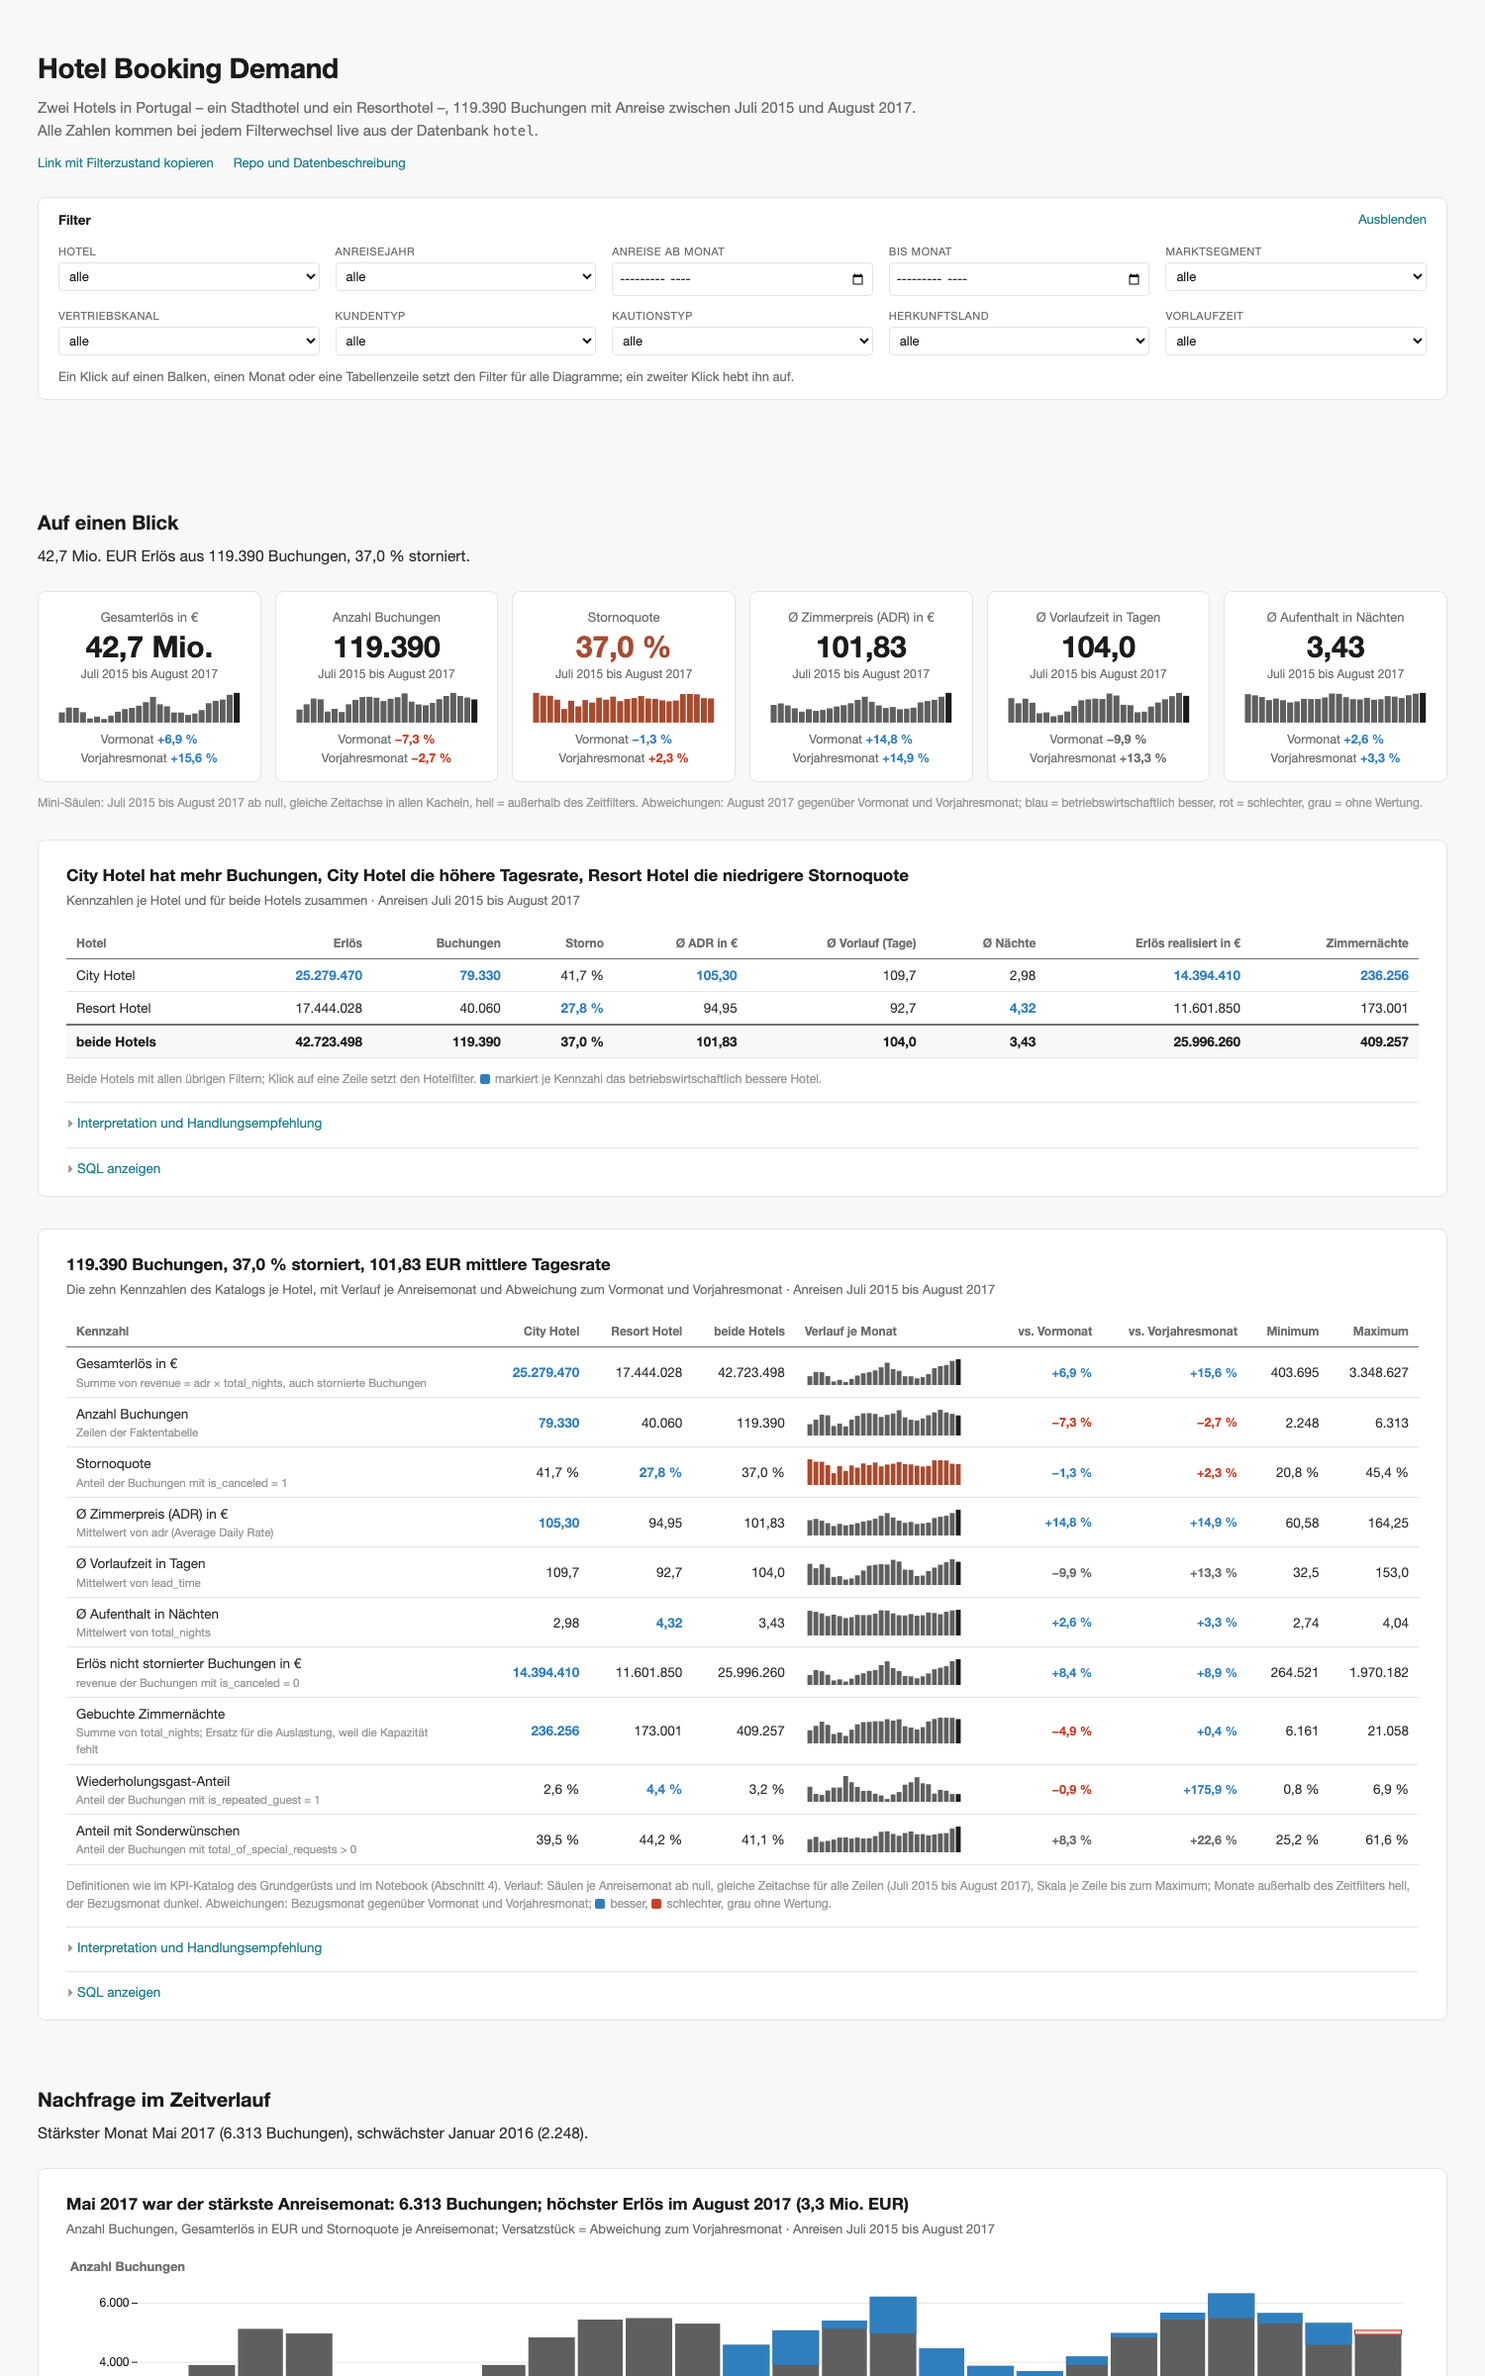
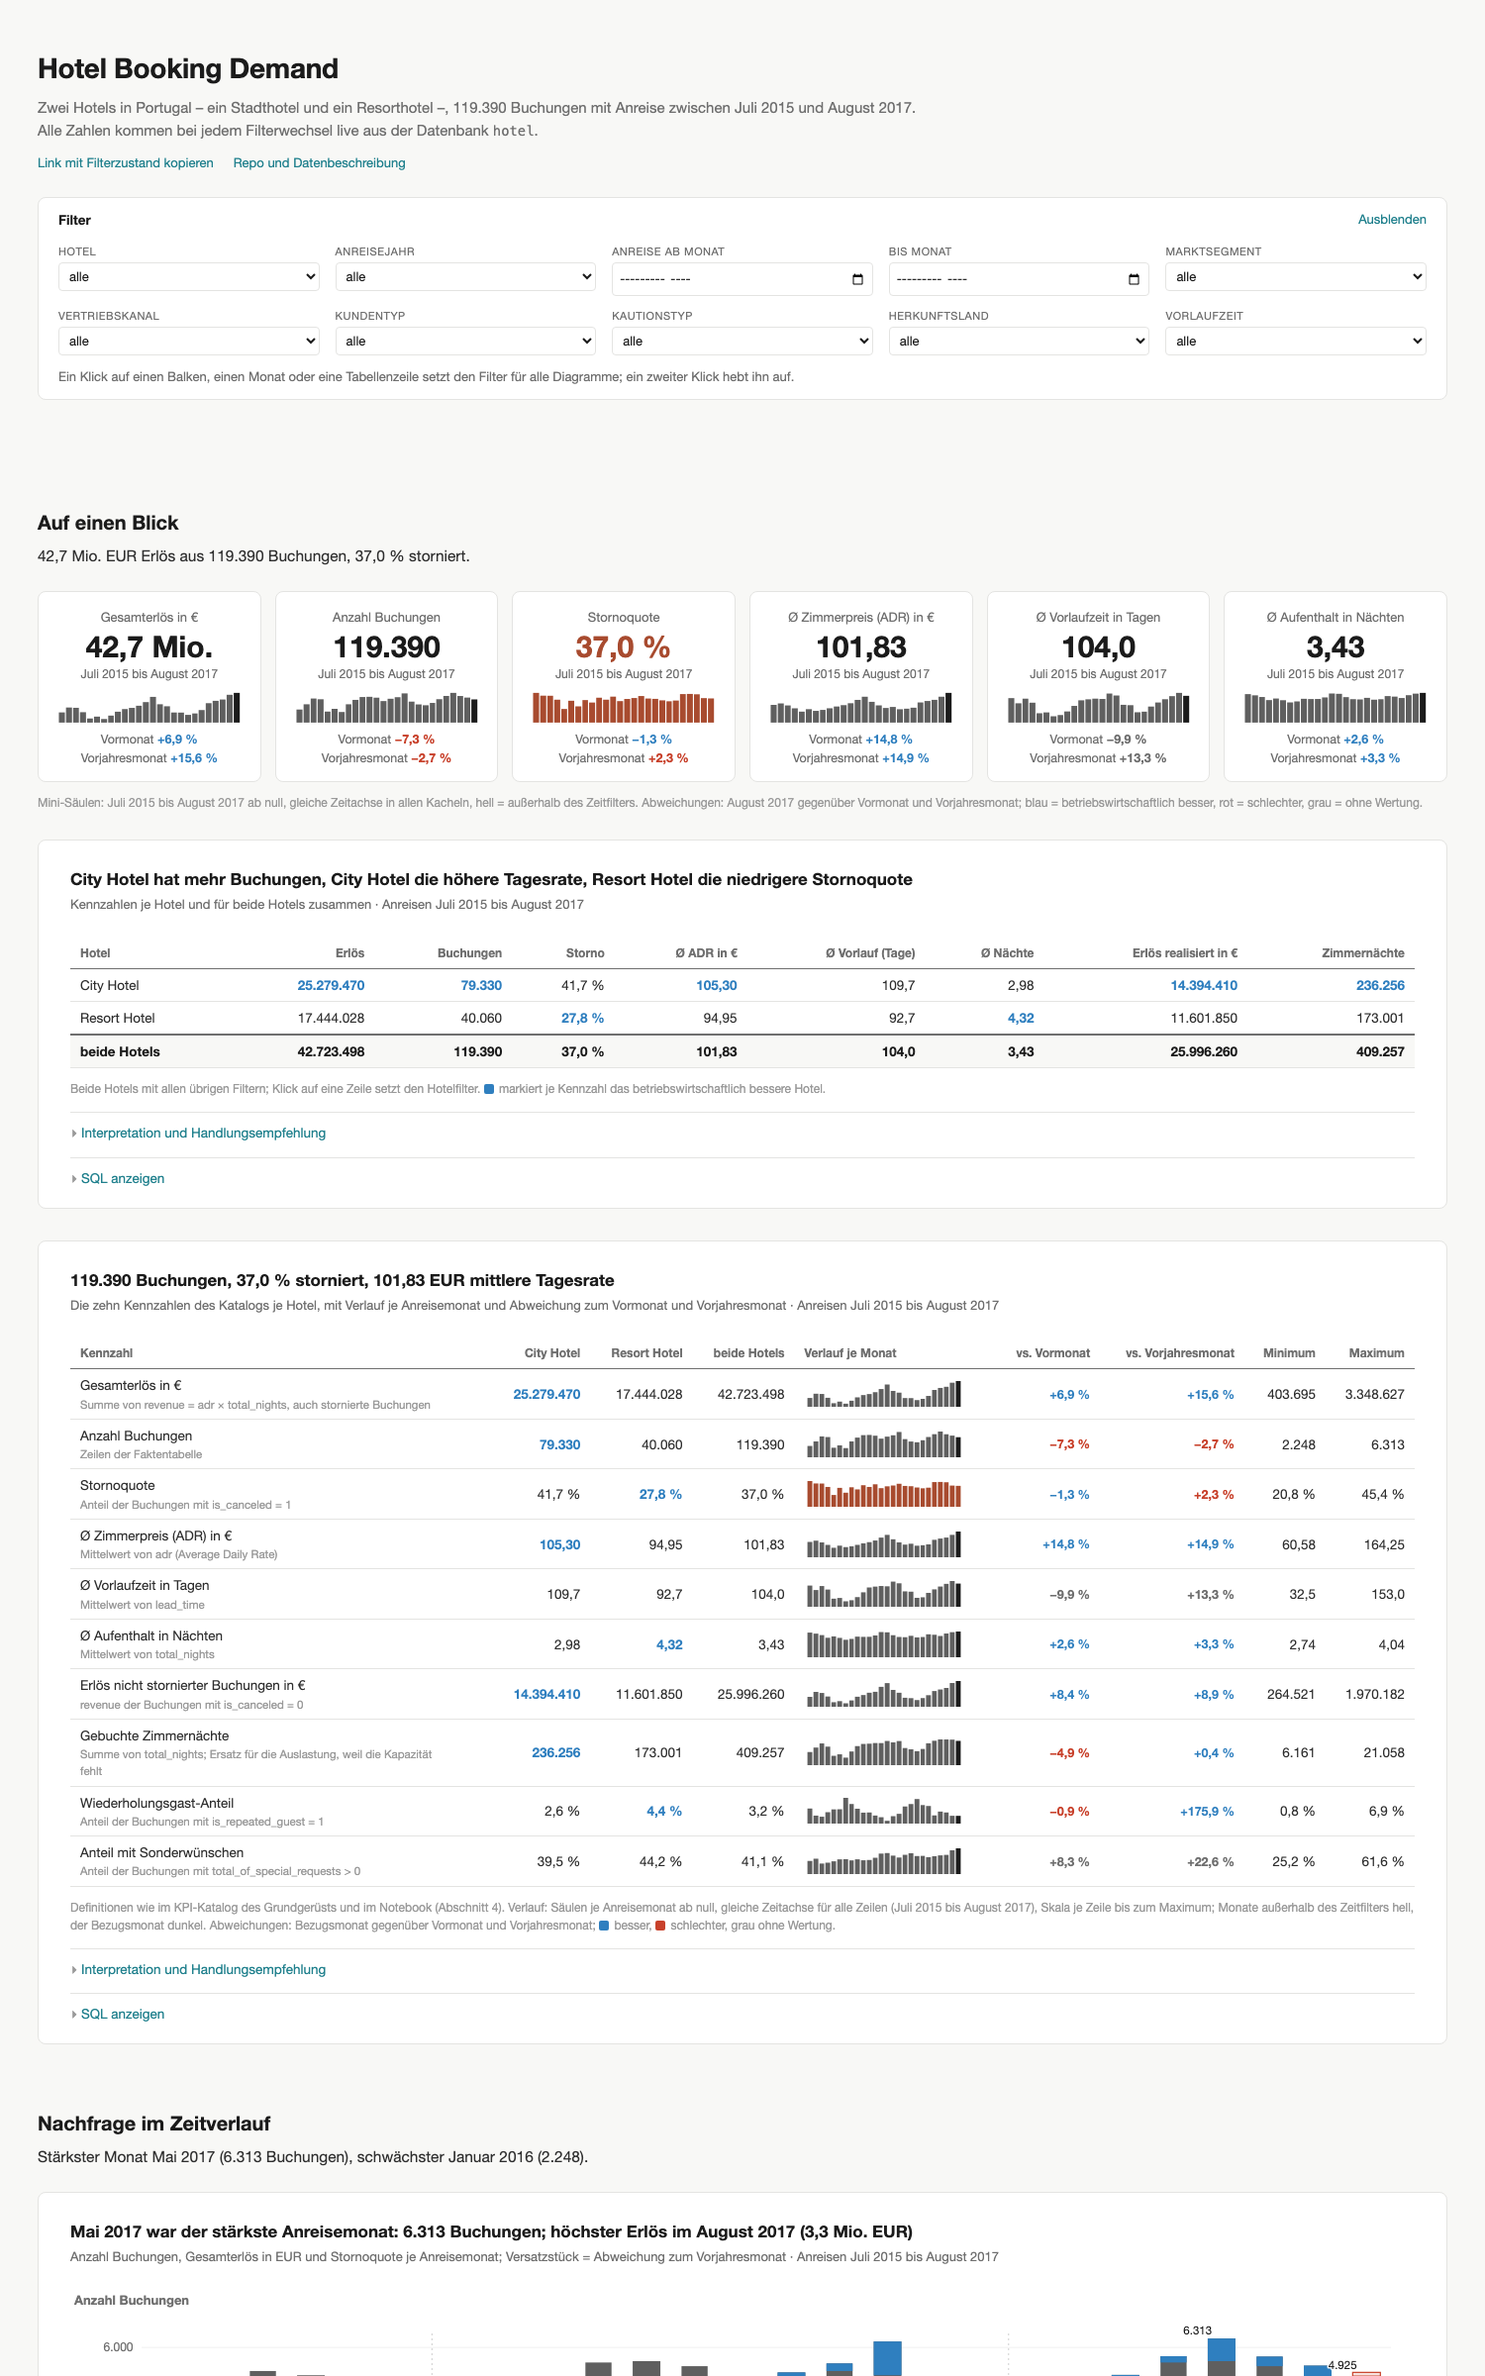
Zeitverlauf: schmalere Säulen, eigene Achse je Feld, Jahrestrenner, Werte an Maximum und Bezugsmonat, mehr Weißraum

diff --git a/dashboard/frontend/diagramme.js b/dashboard/frontend/diagramme.js
@@ -96,14 +96,32 @@ function balken(element, daten, o) {
   });
 }
 
-// Säulen je Monat mit Versatzstück zum Vorjahresmonat (IBCS): liegt der Wert über dem
-// Vorjahresmonat, ist der Überschuss blau, sonst ist der Fehlbetrag rot – bei Kennzahlen,
-// deren Anstieg gut ist. Für "niedriger ist besser" (Stornoquote) sind die Farben getauscht.
-// daten: [{datum, wert, vorjahr, vormonat, imFilter}]; Optionen: format, hoeherBesser, achse, hoehe, klickMonat, tipp.
+// Gemeinsame Zeitachse für Säulendiagramme: Ticks je Quartal, Januar mit Jahreszahl.
+function zeitachse(bereich) {
+  const erster = +bereich[0];
+  return {
+    label: null, domain: bereich, ticks: schmal() ? d3.utcMonth.every(6) : d3.utcMonth.every(3), tickSize: 4,
+    tickFormat: (d) => (d.getUTCMonth() === 0 || +d === erster ? MONATE_KURZ[d.getUTCMonth()] + " " + d.getUTCFullYear() : MONATE_KURZ[d.getUTCMonth()]),
+  };
+}
+
+// Abstand zwischen den Säulen: die Säule nimmt etwa 55 % ihres Monatsfelds ein.
+function saeulenabstand(breite, anzahl, rand) {
+  const feld = (breite - rand) / Math.max(anzahl, 1);
+  return Math.max(2, feld * 0.22);
+}
+
+// Trennlinien und Jahreszahlen an den Jahresgrenzen als Führung.
+function jahresmarken(bereich) {
+  return d3.utcYears(bereich[0], bereich[1]);
+}
+
+// Säulen je Monat mit Versatzstück zum Vorjahresmonat (IBCS). Die Säule zeigt immer den
+// Ist-Wert. Liegt er über dem Vorjahresmonat, ist der Teil oberhalb des Vorjahreswerts
+// gefüllt; liegt er darunter, zeigt ein Umriss über der Säule den Fehlbetrag bis zum
+// Vorjahreswert. Blau = betriebswirtschaftlich besser, Rot = schlechter.
+// daten: [{datum, wert, vorjahr, vormonat, imFilter, bezug}]; Optionen: format, hoeherBesser, hoehe, klickMonat, tipp.
 function saeulen(element, daten, o) {
-  // Die Säule zeigt immer den Ist-Wert. Liegt er über dem Vorjahresmonat, ist der
-  // Teil oberhalb des Vorjahreswerts farbig gefüllt; liegt er darunter, zeigt ein
-  // farbiger Umriss über der Säule den Fehlbetrag bis zum Vorjahreswert.
   const istBesser = (d) => (o.hoeherBesser ? d.wert >= d.vorjahr : d.wert <= d.vorjahr);
   const farbe = (d) => (istBesser(d) ? FARBE.besser : FARBE.schlechter);
   const mitVorjahr = daten.filter((d) => d.vorjahr != null && d.wert !== d.vorjahr);
@@ -111,36 +129,48 @@ function saeulen(element, daten, o) {
   const fehlbetrag = mitVorjahr.filter((d) => d.wert < d.vorjahr);
   const deckkraft = (d) => (d.imFilter === false ? 0.35 : 1);
   const bereich = [d3.min(daten, (d) => d.datum), d3.utcMonth.offset(d3.max(daten, (d) => d.datum), 1)];
+  const breite = breiteVon(element), links = schmal() ? 56 : 72, rechts = 24;
+  const inset = saeulenabstand(breite, daten.length, links + rechts);
+  // Beschriftet werden nur der höchste Monat und der Bezugsmonat.
+  const maximum = d3.greatest(daten, (d) => d.wert);
+  const beschriftet = daten.filter((d) => d === maximum || d.bezug);
   return Plot.plot({
-    width: breiteVon(element), height: o.hoehe || 210, marginLeft: schmal() ? 60 : 72, marginRight: 16, marginTop: 10, marginBottom: o.achse ? 28 : 6,
-    x: { label: null, domain: bereich, axis: o.achse ? "bottom" : null, tickFormat: (d) => monatstext(d), ticks: "6 months" },
-    y: { label: null, grid: true, tickFormat: (d) => o.format(d), nice: true, zero: true, ticks: 4 },
-    style: { fontSize: "12px", color: FARBE.tinte },
+    width: breite, height: o.hoehe || 230, marginLeft: links, marginRight: rechts, marginTop: 22, marginBottom: 30,
+    x: zeitachse(bereich),
+    y: { label: null, grid: true, tickFormat: (d) => o.format(d), nice: true, zero: true, ticks: 4, tickSize: 0 },
+    style: { fontSize: "12px", color: FARBE.grau },
     marks: [
-      Plot.rectY(daten, { x: "datum", interval: "month", y1: 0, y2: "wert", fill: FARBE.balken, fillOpacity: deckkraft, insetLeft: 1.5, insetRight: 1.5,
+      Plot.ruleX(jahresmarken(bereich), { stroke: FARBE.fuehrung, strokeDasharray: "2,3" }),
+      Plot.rectY(daten, { x: "datum", interval: "month", y1: 0, y2: "wert", fill: FARBE.balken, fillOpacity: deckkraft, insetLeft: inset, insetRight: inset,
         render: klickbar(daten, (d) => o.klickMonat && o.klickMonat(d.datum)) }),
-      Plot.rectY(ueberschuss, { x: "datum", interval: "month", y1: "vorjahr", y2: "wert", fill: farbe, fillOpacity: deckkraft, insetLeft: 1.5, insetRight: 1.5 }),
-      Plot.rectY(fehlbetrag, { x: "datum", interval: "month", y1: "wert", y2: "vorjahr", fill: farbe, fillOpacity: 0.18, stroke: farbe, strokeWidth: 1.2, strokeOpacity: deckkraft, insetLeft: 1.5, insetRight: 1.5 }),
+      Plot.rectY(ueberschuss, { x: "datum", interval: "month", y1: "vorjahr", y2: "wert", fill: farbe, fillOpacity: deckkraft, insetLeft: inset, insetRight: inset }),
+      Plot.rectY(fehlbetrag, { x: "datum", interval: "month", y1: "wert", y2: "vorjahr", fill: farbe, fillOpacity: 0.15, stroke: farbe, strokeWidth: 1.2, strokeOpacity: deckkraft, insetLeft: inset, insetRight: inset }),
+      Plot.text(beschriftet, { x: (d) => d3.utcMonth.offset(d.datum, 0.5), y: (d) => (d.vorjahr != null ? Math.max(d.wert, d.vorjahr) : d.wert), dy: -8, text: (d) => o.format(d.wert), fill: FARBE.tinte, fontSize: 11.5, textAnchor: "middle", stroke: "#fff", strokeWidth: 3 }),
       Plot.ruleY([0], { stroke: FARBE.grau }),
       Plot.tip(daten, Plot.pointerX({ x: "datum", y: "wert", title: o.tipp })),
     ],
   });
 }
 
-// Gestapelte Säulen je Monat: unten der realisierte Erlös (grau), oben der durch
-// Stornierung verlorene (rotbraun). daten: [{datum, realisiert, storniert, imFilter}].
+// Gestapelte Säulen je Monat: unten der realisierte Betrag (grau), oben der durch
+// Stornierung entgangene (rotbraun). daten: [{datum, realisiert, storniert, imFilter}].
 function gestapelteSaeulen(element, daten, o) {
   const bereich = [d3.min(daten, (d) => d.datum), d3.utcMonth.offset(d3.max(daten, (d) => d.datum), 1)];
   const deckkraft = (d) => (d.imFilter === false ? 0.35 : 1);
+  const breite = breiteVon(element), links = schmal() ? 56 : 72, rechts = 24;
+  const inset = saeulenabstand(breite, daten.length, links + rechts);
+  const maximum = d3.greatest(daten, (d) => d.realisiert + d.storniert);
   return Plot.plot({
-    width: breiteVon(element), height: 260, marginLeft: schmal() ? 60 : 72, marginRight: 16, marginTop: 10, marginBottom: 28,
-    x: { label: null, domain: bereich, tickFormat: (d) => monatstext(d), ticks: "6 months" },
-    y: { label: null, grid: true, tickFormat: (d) => kurz(d), nice: true, zero: true, ticks: 4 },
-    style: { fontSize: "12px", color: FARBE.tinte },
+    width: breite, height: 280, marginLeft: links, marginRight: rechts, marginTop: 22, marginBottom: 30,
+    x: zeitachse(bereich),
+    y: { label: null, grid: true, tickFormat: (d) => kurz(d), nice: true, zero: true, ticks: 4, tickSize: 0 },
+    style: { fontSize: "12px", color: FARBE.grau },
     marks: [
-      Plot.rectY(daten, { x: "datum", interval: "month", y1: 0, y2: "realisiert", fill: FARBE.balken, fillOpacity: deckkraft, insetLeft: 1.5, insetRight: 1.5,
+      Plot.ruleX(jahresmarken(bereich), { stroke: FARBE.fuehrung, strokeDasharray: "2,3" }),
+      Plot.rectY(daten, { x: "datum", interval: "month", y1: 0, y2: "realisiert", fill: FARBE.balken, fillOpacity: deckkraft, insetLeft: inset, insetRight: inset,
         render: klickbar(daten, (d) => o.klickMonat && o.klickMonat(d.datum)) }),
-      Plot.rectY(daten, { x: "datum", interval: "month", y1: "realisiert", y2: (d) => d.realisiert + d.storniert, fill: FARBE.storno, fillOpacity: deckkraft, insetLeft: 1.5, insetRight: 1.5 }),
+      Plot.rectY(daten, { x: "datum", interval: "month", y1: "realisiert", y2: (d) => d.realisiert + d.storniert, fill: FARBE.storno, fillOpacity: deckkraft, insetLeft: inset, insetRight: inset }),
+      Plot.text(maximum ? [maximum] : [], { x: (d) => d3.utcMonth.offset(d.datum, 0.5), y: (d) => d.realisiert + d.storniert, dy: -7, text: (d) => kurz(d.realisiert + d.storniert), fill: FARBE.tinte, fontSize: 11.5, textAnchor: "middle" }),
       Plot.ruleY([0], { stroke: FARBE.grau }),
       Plot.tip(daten, Plot.pointerX({ x: "datum", y: (d) => d.realisiert + d.storniert, title: o.tipp })),
     ],

diff --git a/dashboard/frontend/index.html b/dashboard/frontend/index.html
@@ -4,7 +4,7 @@
   <meta charset="utf-8">
   <meta name="viewport" content="width=device-width, initial-scale=1">
   <title>Hotel Booking Demand – Dashboard</title>
-  <link rel="stylesheet" href="style.css?v=2026-09-12c">
+  <link rel="stylesheet" href="style.css?v=2026-09-12d">
 </head>
 <body>
 <main>
@@ -60,7 +60,7 @@
     <figure id="fig-zeitverlauf">
       <h3 class="aussage"></h3><p class="beschreibung"></p>
       <div class="diagramm gestapelt"><div id="zeit-buchungen"></div><div id="zeit-erloes"></div><div id="zeit-storno"></div></div>
-      <p class="quelle">Die Säule ist der Monatswert. <span class="signal besser"></span> gefüllt: Zuwachs gegenüber dem Vorjahresmonat &nbsp; <span class="signal schlechter"></span> Umriss über der Säule: Fehlbetrag bis zum Vorjahresmonat (bei der Stornoquote gilt niedriger als besser, die Farben sind dort vertauscht) · Monate außerhalb des Zeitfilters sind hell · Drei Felder, eine Zeitachse, jedes Feld mit eigener Einheit und Skala.</p>
+      <p class="quelle">Die Säule ist der Monatswert; beschriftet sind der höchste Monat und der Bezugsmonat. <span class="signal besser"></span> gefüllt: Zuwachs gegenüber dem Vorjahresmonat &nbsp; <span class="signal schlechter"></span> Umriss über der Säule: Fehlbetrag bis zum Vorjahresmonat (bei der Stornoquote gilt niedriger als besser, die Farben sind dort vertauscht) · Monate außerhalb des Zeitfilters sind hell · gestrichelte Linien: Jahreswechsel · jedes Feld hat seine eigene Einheit und Skala.</p>
       <details class="deutung"><summary>Interpretation und Handlungsempfehlung</summary><div class="deutung-text"></div></details>
       <details class="sql" data-route="monate"><summary>SQL anzeigen</summary><pre></pre></details>
     </figure>
@@ -148,12 +148,12 @@
 <!-- Bibliotheken mit fester Version, damit alle dasselbe Verhalten sehen -->
 <script src="https://cdn.jsdelivr.net/npm/d3@7.9.0/dist/d3.min.js"></script>
 <script src="https://cdn.jsdelivr.net/npm/@observablehq/plot@0.6.17/dist/plot.umd.min.js"></script>
-<script src="format.js?v=2026-09-12c"></script>
-<script src="laendernamen.js?v=2026-09-12c"></script>
-<script src="bezeichnungen.js?v=2026-09-12c"></script>
-<script src="diagramme.js?v=2026-09-12c"></script>
-<script src="tabelle.js?v=2026-09-12c"></script>
-<script src="texte.js?v=2026-09-12c"></script>
-<script src="app.js?v=2026-09-12c"></script>
+<script src="format.js?v=2026-09-12d"></script>
+<script src="laendernamen.js?v=2026-09-12d"></script>
+<script src="bezeichnungen.js?v=2026-09-12d"></script>
+<script src="diagramme.js?v=2026-09-12d"></script>
+<script src="tabelle.js?v=2026-09-12d"></script>
+<script src="texte.js?v=2026-09-12d"></script>
+<script src="app.js?v=2026-09-12d"></script>
 </body>
 </html>

diff --git a/dashboard/frontend/style.css b/dashboard/frontend/style.css
@@ -51,9 +51,9 @@ header.kopf nav a:hover, header.kopf nav button:hover { text-decoration: underli
 section { margin-top: 64px; }
 section > h2 { font-size: 20px; font-weight: 650; color: var(--tinte); margin: 0 0 8px; }
 section > .lead { max-width: 900px; margin: 0 0 24px; color: var(--text); font-size: 15.5px; }
-figure { margin: 0 0 32px; background: var(--flaeche); border: 1px solid var(--linie); border-radius: 8px; padding: 24px 28px 18px; }
+figure { margin: 0 0 32px; background: var(--flaeche); border: 1px solid var(--linie); border-radius: 8px; padding: 28px 32px 20px; }
 figure .aussage { font-size: 17px; font-weight: 650; line-height: 1.35; color: var(--tinte); margin: 0 0 4px; }
-figure .beschreibung { font-size: 13px; color: var(--grau); margin: 0 0 18px; }
+figure .beschreibung { font-size: 13px; color: var(--grau); margin: 0 0 24px; }
 figure .diagramm { min-height: 80px; }
 figure .diagramm svg { display: block; max-width: 100%; height: auto; font-family: var(--schrift); }
 figure .quelle { font-size: 12px; color: var(--hell); margin: 12px 0 0; }

diff --git a/dashboard/frontend/app.js b/dashboard/frontend/app.js
@@ -427,11 +427,11 @@ function zeitverlaufZeichnen(d) {
     ["zeit-erloes", "Gesamterlös in EUR", "gesamterloes", kurz, true, false],
     ["zeit-storno", "Stornoquote", "stornoquote", prozent, false, true]];
   if (d.monate.length < 2) { for (const [id] of felder) document.getElementById(id).replaceChildren(); return; }
-  for (const [id, titel, feld, format, hoeherBesser, achse] of felder) {
+  for (const [id, titel, feld, format, hoeherBesser] of felder) {
     const r = reihe(d.monate, feld);
     const kasten = document.getElementById(id);
     const ueberschrift = document.createElement("h4"); ueberschrift.textContent = titel;
-    kasten.replaceChildren(ueberschrift, saeulen(kasten, r, { format, hoeherBesser, achse, hoehe: achse ? 240 : 210, klickMonat: monatSetzen, tipp: saeulenTipp(titel, format) }));
+    kasten.replaceChildren(ueberschrift, saeulen(kasten, r, { format, hoeherBesser, hoehe: 230, klickMonat: monatSetzen, tipp: saeulenTipp(titel, format) }));
   }
 }
 
